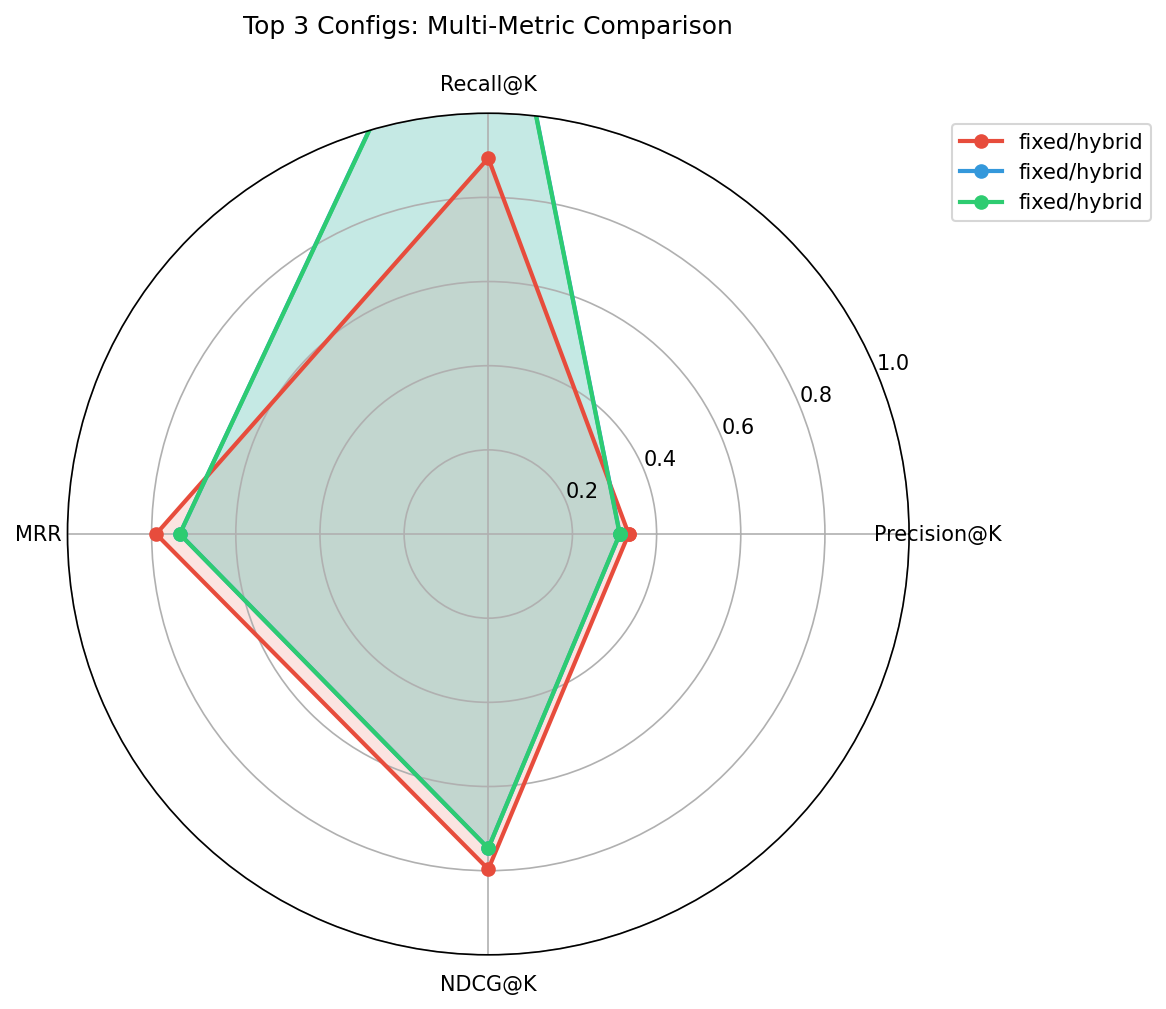
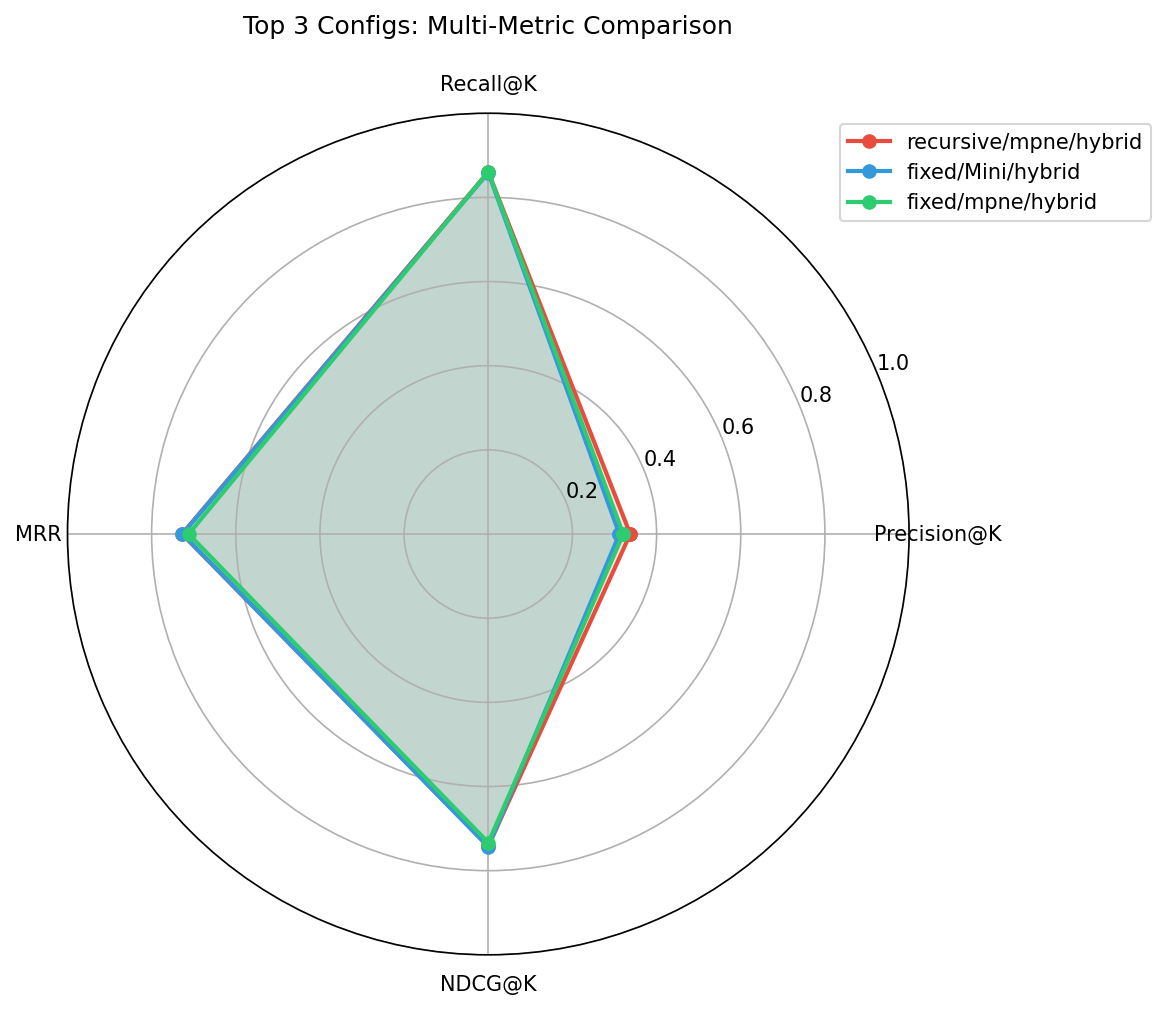
fix: include embedding model in radar chart labels
Distinguishes configs that differ only by embedding model
(e.g., fixed/Mini/hybrid vs fixed/mpne/hybrid).

diff --git a/scripts/visualize.py b/scripts/visualize.py
@@ -140,7 +140,7 @@ def plot_radar(df: pd.DataFrame, output_dir: Path, show: bool = False):
         values = [row[m] for m in metrics]
         values += values[:1]  # Close polygon
 
-        label = f"{row['chunking']}/{row['retriever']}"
+        label = f"{row['chunking']}/{row['embedding'].split('-')[1][:4]}/{row['retriever']}"
         ax.plot(angles, values, "o-", linewidth=2, label=label, color=colors[i])
         ax.fill(angles, values, alpha=0.15, color=colors[i])
 
